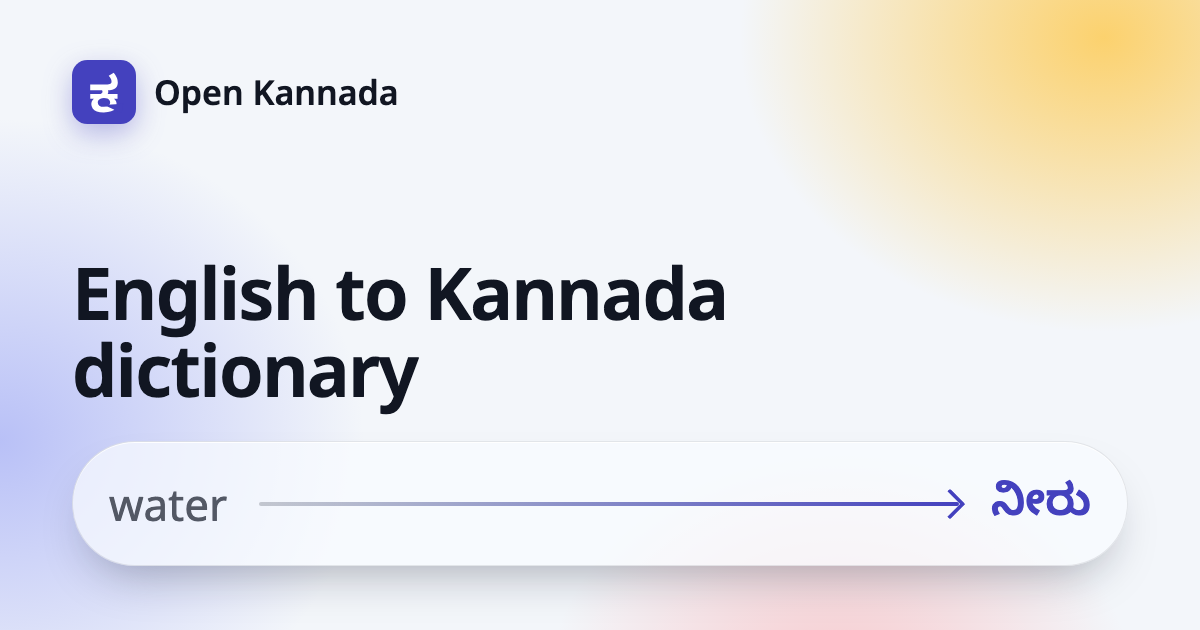
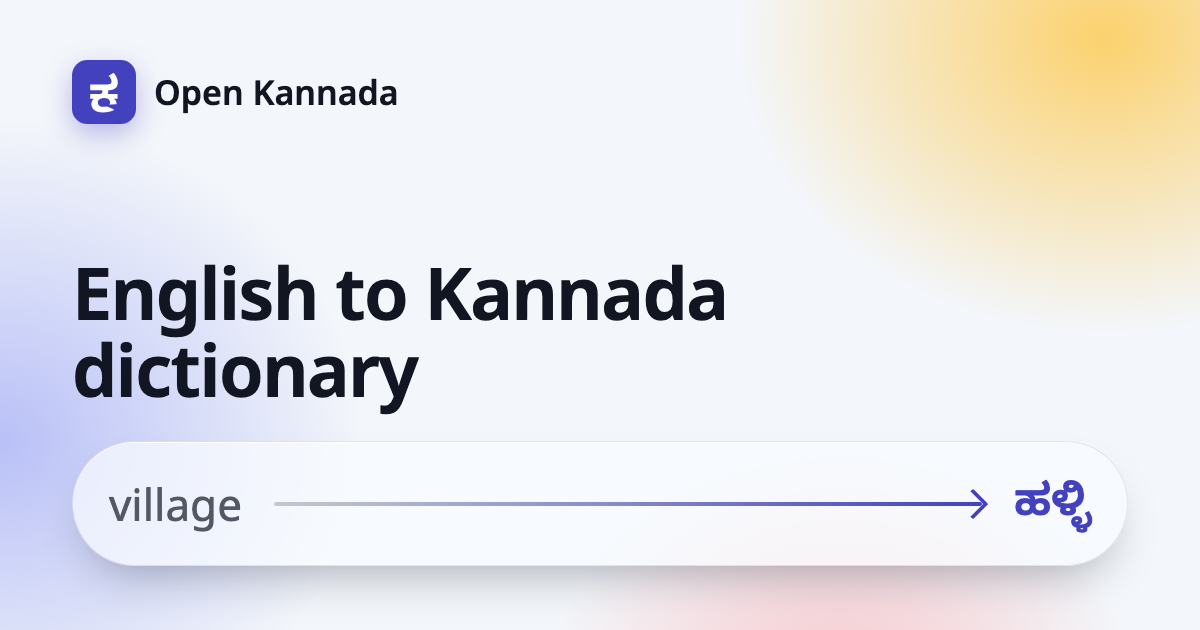
Describe the dictionary on /dictionary/ with its measured figures (#41)
The dictionary build is measured now, so /dictionary/ says what it holds
and how well it finds words, from the figures measured on 18 November
2026, and keeps Downloads as coming soon until it is hosted.

- What it does: 1 page per English word, Kannada words with ISO 15919
  and Baraha spellings, and search that takes English or Kannada, finds
  sound-alikes and finds a word from its inflected forms.
- Result: 3,712 English word pages and 13,887 distinct Kannada words. In
  held-out Kannada Wikipedia text, 20.0% of running words find a page by
  the exact word and 45.1% with inflected forms; 1.6% and 21.1% of
  distinct words.
- Limits: about 1 page in 4 leads with a Kannada word whose modern
  meaning differs; in 2 reviews of 100 pages the main word was judged
  fine on 27 and 28 and wrong on 25 and 24. The 400 most frequent
  English words have no page yet.
- What's next: a Kannada reader's check of the main words, example
  sentences only from openly licensed sources, and the pilot OCR of
  Ziegler's 1876 and Kittel's 1894 dictionaries.
- Sources with each part's license, and the credit line Alar's ODbL asks
  for. The code license is MIT OR Apache-2.0, where the page said MIT.
- The example word, the picture and the Open Graph card show village,
  which has a page; water has none yet.
- The Kannada draft matches and stays needsReview.

A test checks the figures of each sentence in order in both languages,
the stats, the description and the full credit line.
[…]

Changed region(s): [[0.7708, 0.754, 0.925, 0.8444], [0.0925, 0.7841, 0.2158, 0.8444]]

diff --git a/src/content/pages.ts b/src/content/pages.ts
@@ -95,7 +95,7 @@ export interface FontRelease {
 
 /** 1 part of a project page; its heading comes from the site strings, so every project page reads alike. */
 export interface ProjectSection {
-  id: "what" | "specimen" | "based" | "fixed" | "result" | "method" | "limits" | "downloads" | "license";
+  id: "what" | "specimen" | "based" | "fixed" | "result" | "method" | "limits" | "next" | "sources" | "downloads" | "license";
   paragraphs?: string[];
   items?: string[];
   stats?: Stat[];
@@ -147,6 +147,8 @@ const CONVERT_STEPS = [
 
 const TYPING_LINK = '<a href="/english-to-kannada-typing/">English to Kannada typing</a>';
 
+/** The credit Alar's ODbL asks for, word for word, on every page and download that uses it. */
+const ALAR_CREDIT = "Contains information from Alar by V. Krishna (<a href=\"https://alar.ink\">https://alar.ink</a>), made available under the Open Database License 1.0.";
 const SOON = "Coming soon.";
 const SOON_KN = "ಶೀಘ್ರದಲ್ಲೇ ಬರಲಿದೆ.";
 const MIT = "https://opensource.org/license/mit";
@@ -654,25 +656,74 @@ export const ALL_PAGES: Page[] = [
     name: "Dictionary",
     title: "English to Kannada dictionary: Kannada words, spellings and meanings",
     description:
-      "An English to Kannada dictionary with 1 page per English word: Kannada words with ISO 15919 and Baraha spellings, part of speech and meanings from Alar.",
+      "An English to Kannada dictionary with 3,712 word pages: Kannada words with ISO 15919 and Baraha spellings, part of speech and meanings from Alar.",
     h1: "English to Kannada dictionary",
     intro:
-      "An English to Kannada dictionary, with 1 page per English word. Each page gives the Kannada words with their ISO 15919 and Baraha spellings, the part of speech, and meanings drawn from the Alar dictionary.",
+      "An English to Kannada dictionary, with 1 page per English word. Each page gives the Kannada words with their ISO 15919 and Baraha spellings, the part of speech, and what each Kannada word means in English, from the Alar dictionary.",
     art: "dictionary",
     schema: "CreativeWork",
-    licenses: [ODBL, MIT],
+    licenses: [ODBL, MIT, APACHE],
     sections: [
       {
         id: "what",
         paragraphs: [
-          'Look up an English word, such as <i>water</i>, and its page lists the Kannada words for it, such as <span lang="kn">ನೀರು</span>, each with its ISO 15919 spelling, <kbd>nīru</kbd>, and the Baraha spelling to type it, <kbd>nIru</kbd>. The meanings come from the Alar dictionary by V. Krishna.',
+          'The page for an English word, such as <i>village</i>, lists the Kannada words for it, such as <span lang="kn">ಹಳ್ಳಿ</span>, each with its ISO 15919 spelling, <kbd>haḷḷi</kbd>, and the Baraha spelling to type it, <kbd>haLLi</kbd>. The meanings come from the Alar dictionary by V. Krishna.',
+          'The dictionary\'s search takes English or Kannada. It finds words that sound alike, and it finds a Kannada word from its inflected forms: <span lang="kn">ಹಳ್ಳಿಗಳಲ್ಲಿ</span>, in the villages, finds the page for <i>village</i>.',
+        ],
+      },
+      {
+        id: "result",
+        stats: [
+          { value: "3,712", label: "English word pages" },
+          { value: "13,887", label: "distinct Kannada words on those pages" },
+          { value: "45.1%", label: "of Kannada words in running text find a page, with inflected forms" },
+        ],
+        paragraphs: [
+          "In held-out Kannada Wikipedia text, 20.0% of running words find a page by the exact word, and 45.1% by the exact word or the word it is a form of. Counted once each, 1.6% of distinct words find a page by the exact word, and 21.1% with forms.",
+        ],
+      },
+      {
+        id: "method",
+        paragraphs: [
+          'The text is the 2.2 million held-out words of Kannada Wikipedia that the <a href="/spell-check/">spell checker</a> is measured on. Search matches each page\'s main Kannada word and the next 4, 10,654 Kannada words in all.',
+          "The main Kannada word of 100 pages was checked in 2 independent reviews.",
+        ],
+      },
+      {
+        id: "limits",
+        items: [
+          'About 1 page in 4 leads with a Kannada word whose modern meaning differs, such as <span lang="kn">ವರ್ತನೆ</span> for <i>profession</i>. In the 2 reviews, the main word was judged fine on 27 and 28 pages, and wrong on 25 and 24.',
+          "The 400 most frequent English words, such as <i>house</i> and <i>water</i>, have no page yet. They are left out until their Kannada meanings can be ranked well.",
+        ],
+      },
+      {
+        id: "next",
+        items: [
+          "A Kannada reader's check of the main word on the most searched pages.",
+          "Example sentences, only from an openly licensed source and with attribution. None are made up, and none are on the site yet.",
+          'Words from 2 public-domain dictionaries: Ziegler\'s English-Kannada school dictionary of 1876 and Kittel\'s Kannada-English dictionary of 1894. In a pilot on 20 pages of each, <a href="/ocr/">Open Kannada OCR</a> v0.2 misread 7.6% of Kannada characters in Ziegler, against 12.4% for Tesseract\'s stock Kannada model, and 22.7% in Kittel, against 30.1%. These are first measurements, on 60 lines of each book transcribed from the scans. A Kannada reader has not checked those transcriptions yet.',
+          'Ziegler comes first, since its Kannada reads well enough to proofread. Kittel needs a model trained on its old letters, such as <span lang="kn">ಱ</span> and <span lang="kn">ೞ</span>, and its type. English headwords with pronunciation marks come out exactly right fewer than 1 time in 10 so far, 6.2% in Ziegler and 7.5% in Kittel, because Tesseract\'s English model lacks the marks.',
+        ],
+      },
+      {
+        id: "sources",
+        items: [
+          'Meanings and Kannada words: <a href="https://alar.ink">Alar</a>, the Kannada-English dictionary by V. Krishna, under ODbL-1.0. The English to Kannada index built from it is ODbL-1.0 too.',
+          'Inflected-form search: the <a href="/spell-check/">spell checker</a>\'s analyzer, compiled to WebAssembly, under MIT OR Apache-2.0. Its stem list is derived from Alar and is ODbL-1.0.',
+          "Sound-alike search: the spell checker's sound-alike keys, under MIT OR Apache-2.0.",
+          'ISO 15919 and Baraha spellings: <a href="https://github.com/openkannada/kannadi">kannadi</a>, under MIT OR Apache-2.0.',
+          "The order of meanings: word counts from Kannada Wikipedia. Only the counts are used; Wikipedia's text is CC BY-SA 4.0.",
+          'The choice of English words: ranks from <a href="https://github.com/hermitdave/FrequencyWords">FrequencyWords</a> by Hermit Dave, under CC BY-SA 4.0. Only the ranks are used.',
         ],
       },
       { id: "downloads", paragraphs: [SOON] },
-      { id: "license", items: ["Data: ODbL-1.0.", "Code: MIT."] },
+      {
+        id: "license",
+        items: ["Data: ODbL-1.0.", "Code: MIT OR Apache-2.0.", ALAR_CREDIT],
+      },
     ],
     faq: [],
-    og: { from: "water", to: "ನೀರು" },
+    og: { from: "village", to: "ಹಳ್ಳಿ" },
     keywords: "",
   },
   {
@@ -1089,25 +1140,74 @@ export const ALL_PAGES: Page[] = [
     name: "ನಿಘಂಟು",
     title: "ಇಂಗ್ಲಿಷ್-ಕನ್ನಡ ನಿಘಂಟು: ಕನ್ನಡ ಪದಗಳು, ಲಿಪ್ಯಂತರ ಮತ್ತು ಅರ್ಥಗಳು",
     description:
-      "ಪ್ರತಿ ಇಂಗ್ಲಿಷ್ ಪದಕ್ಕೆ 1 ಪುಟವಿರುವ ಇಂಗ್ಲಿಷ್-ಕನ್ನಡ ನಿಘಂಟು: ISO 15919 ಮತ್ತು ಬರಹ ಲಿಪ್ಯಂತರದೊಂದಿಗೆ ಕನ್ನಡ ಪದಗಳು, ಪದವರ್ಗ, ಅಲರ್ನಿಂದ ಅರ್ಥಗಳು.",
+      "3,712 ಪದ ಪುಟಗಳಿರುವ ಇಂಗ್ಲಿಷ್-ಕನ್ನಡ ನಿಘಂಟು: ISO 15919 ಮತ್ತು ಬರಹ ಲಿಪ್ಯಂತರದೊಂದಿಗೆ ಕನ್ನಡ ಪದಗಳು, ಪದವರ್ಗ, ಅಲರ್ನಿಂದ ಅರ್ಥಗಳು.",
     h1: "ಇಂಗ್ಲಿಷ್-ಕನ್ನಡ ನಿಘಂಟು",
     intro:
-      "ಪ್ರತಿ ಇಂಗ್ಲಿಷ್ ಪದಕ್ಕೆ 1 ಪುಟವಿರುವ ಇಂಗ್ಲಿಷ್-ಕನ್ನಡ ನಿಘಂಟು. ಪ್ರತಿ ಪುಟದಲ್ಲಿ ಕನ್ನಡ ಪದಗಳು, ಅವುಗಳ ISO 15919 ಮತ್ತು ಬರಹ ಲಿಪ್ಯಂತರ, ಪದವರ್ಗ, ಮತ್ತು ಅಲರ್ ನಿಘಂಟಿನಿಂದ ತೆಗೆದ ಅರ್ಥಗಳು ಇರುತ್ತವೆ.",
+      "ಪ್ರತಿ ಇಂಗ್ಲಿಷ್ ಪದಕ್ಕೆ 1 ಪುಟವಿರುವ ಇಂಗ್ಲಿಷ್-ಕನ್ನಡ ನಿಘಂಟು. ಪ್ರತಿ ಪುಟದಲ್ಲಿ ಕನ್ನಡ ಪದಗಳು, ಅವುಗಳ ISO 15919 ಮತ್ತು ಬರಹ ಲಿಪ್ಯಂತರ, ಪದವರ್ಗ, ಮತ್ತು ಅಲರ್ ನಿಘಂಟಿನಿಂದ ಪಡೆದ ಇಂಗ್ಲಿಷ್ ಅರ್ಥಗಳು ಇರುತ್ತವೆ.",
     art: "dictionary",
     schema: "CreativeWork",
-    licenses: [ODBL, MIT],
+    licenses: [ODBL, MIT, APACHE],
     sections: [
       {
         id: "what",
         paragraphs: [
-          '<i lang="en">water</i> ನಂತಹ ಇಂಗ್ಲಿಷ್ ಪದವನ್ನು ಹುಡುಕಿದರೆ, ಅದರ ಪುಟದಲ್ಲಿ ನೀರು ನಂತಹ ಕನ್ನಡ ಪದಗಳು ಕಾಣುತ್ತವೆ. ಪ್ರತಿ ಪದದ ಜೊತೆ ಅದರ ISO 15919 ರೂಪ <kbd>nīru</kbd>, ಮತ್ತು ಅದನ್ನು ಟೈಪ್ ಮಾಡಲು ಬರಹ ರೂಪ <kbd>nIru</kbd> ಇರುತ್ತದೆ. ಅರ್ಥಗಳು ವಿ. ಕೃಷ್ಣ ಅವರ ಅಲರ್ ನಿಘಂಟಿನಿಂದ ಬಂದಿವೆ.',
+          '<i lang="en">village</i> ನಂತಹ ಇಂಗ್ಲಿಷ್ ಪದದ ಪುಟದಲ್ಲಿ ಹಳ್ಳಿ ನಂತಹ ಕನ್ನಡ ಪದಗಳಿರುತ್ತವೆ. ಪ್ರತಿ ಪದದ ಜೊತೆ ಅದರ ISO 15919 ರೂಪ <kbd>haḷḷi</kbd>, ಮತ್ತು ಅದನ್ನು ಟೈಪ್ ಮಾಡಲು ಬರಹ ರೂಪ <kbd>haLLi</kbd> ಇರುತ್ತದೆ. ಅರ್ಥಗಳು ವಿ. ಕೃಷ್ಣ ಅವರ ಅಲರ್ ನಿಘಂಟಿನಿಂದ ಬಂದಿವೆ.',
+          'ನಿಘಂಟಿನ ಹುಡುಕಾಟ ಇಂಗ್ಲಿಷ್ ಅಥವಾ ಕನ್ನಡ ಪದವನ್ನು ಸ್ವೀಕರಿಸುತ್ತದೆ. ಅದು ಉಚ್ಚಾರದಲ್ಲಿ ಹೋಲುವ ಪದಗಳನ್ನು ಹುಡುಕುತ್ತದೆ, ಮತ್ತು ಪದದ ರೂಪಾಂತರಗಳಿಂದ ಮೂಲ ಪದವನ್ನು ಗುರುತಿಸುತ್ತದೆ: ಹಳ್ಳಿಗಳಲ್ಲಿ ಎಂಬ ರೂಪದಿಂದ <i lang="en">village</i> ಪುಟ ಸಿಗುತ್ತದೆ.',
+        ],
+      },
+      {
+        id: "result",
+        stats: [
+          { value: "3,712", label: "ಇಂಗ್ಲಿಷ್ ಪದ ಪುಟಗಳು" },
+          { value: "13,887", label: "ಆ ಪುಟಗಳಲ್ಲಿರುವ ಬೇರೆ ಬೇರೆ ಕನ್ನಡ ಪದಗಳು" },
+          { value: "45.1%", label: "ಪಠ್ಯದ ಕನ್ನಡ ಪದಗಳಿಗೆ, ರೂಪಾಂತರಗಳೂ ಸೇರಿ, ಪುಟ ಸಿಗುತ್ತದೆ" },
+        ],
+        paragraphs: [
+          "ಪರೀಕ್ಷೆಗಾಗಿ ಹೊರಗಿಟ್ಟ ಕನ್ನಡ ವಿಕಿಪೀಡಿಯ ಪಠ್ಯದಲ್ಲಿ, ಪದವನ್ನು ಇದ್ದಂತೆಯೇ ಹುಡುಕಿದರೆ 20.0% ಪದಗಳಿಗೆ ಪುಟ ಸಿಗುತ್ತದೆ. ಪದ ಯಾವುದರ ರೂಪಾಂತರವೋ ಆ ಮೂಲ ಪದದಿಂದಲೂ ಹುಡುಕಿದರೆ 45.1% ಪದಗಳಿಗೆ ಸಿಗುತ್ತದೆ. ಪ್ರತಿ ಪದವನ್ನು ಒಮ್ಮೆ ಮಾತ್ರ ಎಣಿಸಿದರೆ, ಇವು 1.6% ಮತ್ತು 21.1%.",
+        ],
+      },
+      {
+        id: "method",
+        paragraphs: [
+          'ಅಳತೆಗೆ ಬಳಸಿದ ಪಠ್ಯ, <a href="/kn/spell-check/">ಕಾಗುಣಿತ ಪರೀಕ್ಷಕ</a>ವನ್ನು ಅಳೆಯಲು ಪರೀಕ್ಷೆಗಾಗಿ ಹೊರಗಿಟ್ಟ ಕನ್ನಡ ವಿಕಿಪೀಡಿಯದ ಅದೇ 22 ಲಕ್ಷ ಪದಗಳು. ಹುಡುಕಾಟವು ಪ್ರತಿ ಪುಟದ ಮುಖ್ಯ ಕನ್ನಡ ಪದ ಮತ್ತು ಅದರ ನಂತರದ 4 ಪದಗಳೊಂದಿಗೆ ಹೋಲಿಸುತ್ತದೆ, ಒಟ್ಟು 10,654 ಕನ್ನಡ ಪದಗಳು.',
+          "100 ಪುಟಗಳ ಮುಖ್ಯ ಕನ್ನಡ ಪದವನ್ನು 2 ಸ್ವತಂತ್ರ ಪರಿಶೀಲನೆಗಳಲ್ಲಿ ಪರಿಶೀಲಿಸಲಾಗಿದೆ.",
+        ],
+      },
+      {
+        id: "limits",
+        items: [
+          'ಸುಮಾರು 4 ಪುಟಗಳಲ್ಲಿ 1 ಪುಟ, ಇಂದಿನ ಅರ್ಥ ಬೇರೆಯಾಗಿರುವ ಕನ್ನಡ ಪದದಿಂದ ಆರಂಭವಾಗುತ್ತದೆ, ಉದಾಹರಣೆಗೆ <i lang="en">profession</i> ಗೆ ವರ್ತನೆ. 2 ಪರಿಶೀಲನೆಗಳಲ್ಲಿ ಮುಖ್ಯ ಪದ 27 ಮತ್ತು 28 ಪುಟಗಳಲ್ಲಿ ಸರಿ ಎಂದು, 25 ಮತ್ತು 24 ಪುಟಗಳಲ್ಲಿ ತಪ್ಪು ಎಂದು ತೀರ್ಮಾನವಾಯಿತು.',
+          '<i lang="en">house</i>, <i lang="en">water</i> ನಂತಹ ಅತಿ ಹೆಚ್ಚು ಬಳಕೆಯ 400 ಇಂಗ್ಲಿಷ್ ಪದಗಳಿಗೆ ಇನ್ನೂ ಪುಟವಿಲ್ಲ. ಅವುಗಳ ಕನ್ನಡ ಅರ್ಥಗಳನ್ನು ಸರಿಯಾಗಿ ಕ್ರಮಗೊಳಿಸುವವರೆಗೆ ಅವನ್ನು ಬಿಡಲಾಗಿದೆ.',
+        ],
+      },
+      {
+        id: "next",
+        items: [
+          "ಹೆಚ್ಚು ಹುಡುಕಲಾಗುವ ಪುಟಗಳ ಮುಖ್ಯ ಪದವನ್ನು ಕನ್ನಡ ಓದುಗರೊಬ್ಬರು ಪರಿಶೀಲಿಸುವುದು.",
+          "ಉದಾಹರಣೆ ವಾಕ್ಯಗಳು, ಮುಕ್ತ ಲೈಸೆನ್ಸ್ ಇರುವ ಮೂಲದಿಂದ ಮಾತ್ರ, ಮೂಲದ ಉಲ್ಲೇಖದೊಂದಿಗೆ. ಯಾವುದನ್ನೂ ಕಲ್ಪಿಸಿ ಬರೆಯುವುದಿಲ್ಲ, ಮತ್ತು ಇನ್ನೂ ಯಾವುದೂ ತಾಣದಲ್ಲಿಲ್ಲ.",
+          'ಸಾರ್ವಜನಿಕ ಸ್ವತ್ತಾಗಿರುವ 2 ನಿಘಂಟುಗಳ ಪದಗಳು: 1876ರ ಜೀಗ್ಲರ್ ಅವರ ಇಂಗ್ಲಿಷ್-ಕನ್ನಡ ಶಾಲಾ ನಿಘಂಟು ಮತ್ತು 1894ರ ಕಿಟ್ಟೆಲ್ ಅವರ ಕನ್ನಡ-ಇಂಗ್ಲಿಷ್ ನಿಘಂಟು. ಪ್ರತಿಯೊಂದರ 20 ಪುಟಗಳ ಪ್ರಾಯೋಗಿಕ ಓದಿನಲ್ಲಿ, <a href="/kn/ocr/">ಓಪನ್ ಕನ್ನಡ OCR</a> 0.2 ಜೀಗ್ಲರ್ನಲ್ಲಿ 7.6% ಕನ್ನಡ ಅಕ್ಷರಗಳನ್ನು ತಪ್ಪಾಗಿ ಓದಿತು; Tesseract ನ ಸಾಮಾನ್ಯ ಕನ್ನಡ ಮಾದರಿ 12.4% ತಪ್ಪಾಗಿ ಓದಿತು. ಕಿಟ್ಟೆಲ್ನಲ್ಲಿ ಇವು 22.7% ಮತ್ತು 30.1%. ಇವು ಮೊದಲ ಅಳತೆಗಳು, ಸ್ಕ್ಯಾನ್ಗಳಿಂದ ಬರೆದುಕೊಂಡ ಪ್ರತಿ ಪುಸ್ತಕದ 60 ಸಾಲುಗಳ ಮೇಲೆ. ಆ ಪ್ರತಿಗಳನ್ನು ಕನ್ನಡ ಓದುಗರೊಬ್ಬರು ಇನ್ನೂ ಪರಿಶೀಲಿಸಿಲ್ಲ.',
+          "ಜೀಗ್ಲರ್ ಮೊದಲು, ಏಕೆಂದರೆ ಅದರ ಕನ್ನಡವನ್ನು ತಿದ್ದುವಷ್ಟು ಚೆನ್ನಾಗಿ ಓದಬಹುದು. ಕಿಟ್ಟೆಲ್ಗೆ ಱ, ೞ ನಂತಹ ಅದರ ಹಳೆಯ ಅಕ್ಷರಗಳ ಮೇಲೆ ಮತ್ತು ಅದರ ಅಚ್ಚಿನ ಮೇಲೆ ತರಬೇತಿ ಪಡೆದ ಮಾದರಿ ಬೇಕು. ಉಚ್ಚಾರ ಚಿಹ್ನೆಗಳಿರುವ ಇಂಗ್ಲಿಷ್ ಮುಖ್ಯ ಪದಗಳು ಸದ್ಯಕ್ಕೆ 10ರಲ್ಲಿ 1 ಸಲಕ್ಕಿಂತ ಕಡಿಮೆ ಬಾರಿ ಪೂರ್ತಿ ಸರಿಯಾಗಿ ಬರುತ್ತವೆ, ಜೀಗ್ಲರ್ನಲ್ಲಿ 6.2% ಮತ್ತು ಕಿಟ್ಟೆಲ್ನಲ್ಲಿ 7.5%, ಏಕೆಂದರೆ Tesseract ನ ಇಂಗ್ಲಿಷ್ ಮಾದರಿಯಲ್ಲಿ ಆ ಚಿಹ್ನೆಗಳಿಲ್ಲ.",
+        ],
+      },
+      {
+        id: "sources",
+        items: [
+          'ಅರ್ಥಗಳು ಮತ್ತು ಕನ್ನಡ ಪದಗಳು: ವಿ. ಕೃಷ್ಣ ಅವರ ಕನ್ನಡ-ಇಂಗ್ಲಿಷ್ ನಿಘಂಟು <a href="https://alar.ink">ಅಲರ್</a>, ODbL-1.0 ಅಡಿಯಲ್ಲಿ. ಅದರಿಂದ ಕಟ್ಟಿದ ಇಂಗ್ಲಿಷ್-ಕನ್ನಡ ಸೂಚಿಯೂ ODbL-1.0.',
+          'ರೂಪಾಂತರಗಳ ಹುಡುಕಾಟ: <a href="/kn/spell-check/">ಕಾಗುಣಿತ ಪರೀಕ್ಷಕ</a>ದ ಪದ ವಿಶ್ಲೇಷಕ, WebAssembly ಆಗಿ, MIT OR Apache-2.0 ಅಡಿಯಲ್ಲಿ. ಅದರ ಪದಮೂಲ ಪಟ್ಟಿ ಅಲರ್ನಿಂದ ಪಡೆದದ್ದು, ODbL-1.0.',
+          "ಉಚ್ಚಾರ ಹೋಲಿಕೆಯ ಹುಡುಕಾಟ: ಕಾಗುಣಿತ ಪರೀಕ್ಷಕದ ಉಚ್ಚಾರ ಹೋಲಿಕೆಯ ಕೀಲಿಗಳು, MIT OR Apache-2.0 ಅಡಿಯಲ್ಲಿ.",
+          'ISO 15919 ಮತ್ತು ಬರಹ ರೂಪಗಳು: <a href="https://github.com/openkannada/kannadi">ಕನ್ನಡಿ</a>, MIT OR Apache-2.0 ಅಡಿಯಲ್ಲಿ.',
+          "ಅರ್ಥಗಳ ಕ್ರಮ: ಕನ್ನಡ ವಿಕಿಪೀಡಿಯದ ಪದ ಎಣಿಕೆಗಳು. ಎಣಿಕೆಗಳನ್ನು ಮಾತ್ರ ಬಳಸಲಾಗಿದೆ; ವಿಕಿಪೀಡಿಯದ ಪಠ್ಯ CC BY-SA 4.0.",
+          'ಇಂಗ್ಲಿಷ್ ಪದಗಳ ಆಯ್ಕೆ: Hermit Dave ಅವರ <a href="https://github.com/hermitdave/FrequencyWords">FrequencyWords</a> ನ ಕ್ರಮಾಂಕಗಳು, CC BY-SA 4.0 ಅಡಿಯಲ್ಲಿ. ಕ್ರಮಾಂಕಗಳನ್ನು ಮಾತ್ರ ಬಳಸಲಾಗಿದೆ.',
         ],
       },
       { id: "downloads", paragraphs: [SOON_KN] },
-      { id: "license", items: ["ಡೇಟಾ: ODbL-1.0.", "ಕೋಡ್: MIT."] },
+      {
+        id: "license",
+        items: ["ಡೇಟಾ: ODbL-1.0.", "ಕೋಡ್: MIT OR Apache-2.0.", ALAR_CREDIT],
+      },
     ],
     faq: [],
-    og: { from: "water", to: "ನೀರು" },
+    og: { from: "village", to: "ಹಳ್ಳಿ" },
     keywords: "",
   },
   {

diff --git a/test/site.test.ts b/test/site.test.ts
@@ -85,7 +85,24 @@ test("project pages say what each tool does, its license and where to get it, wi
     "MILE lines from IISc, 600: 2.8%, against 3.8%.",
   ], "the v0.2 results as released, and no other");
   assert.doesNotMatch(text("ocr"), /dots/i);
-  for (const slug of ["fonts", "dictionary"]) assert.doesNotMatch(text(slug).replace(/U\+[0-9A-F]{4}|15919|1\.1\b|2\.0\b|1\.0\b|\b3 |\d\.\d{3}|SHA-256|Article 1\b/g, ""), /\d+(\.\d+)?%|\d{2,}/, `${slug} shows a figure`);
+  const BRIEF = ["3,712", "13,887", "10,654", "20.0%", "45.1%", "1.6%", "21.1%", "2.2", "22", "100", "27", "28", "25", "24", "400", "1876", "1894", "20", "7.6%", "12.4%", "22.7%", "30.1%", "60", "6.2%", "7.5%", "10", "0.2", "4", "1", "2"];
+  const figures = (html) => plainText(html).replace(/15919|ODbL-1\.0|Apache-2\.0|BY-SA 4\.0|License 1\.0/g, "").match(/\d[\d,.]*\d%?|\d%?/g) ?? [];
+  const CREDIT = 'Contains information from Alar by V. Krishna (<a href="https://alar.ink">https://alar.ink</a>), made available under the Open Database License 1.0.';
+  for (const slug of ["dictionary", "kn/dictionary"]) {
+    const page = ALL_PAGES.find((p) => p.slug === slug);
+    const section = (id) => page.sections.find((s) => s.id === id);
+    for (const n of figures(JSON.stringify(page.sections) + page.description + page.intro)) assert.ok(BRIEF.includes(n), `${slug} shows ${n}, a figure the brief does not give`);
+    assert.deepEqual(section("result").stats.map((s) => s.value), ["3,712", "13,887", "45.1%"], `${slug} stats`);
+    assert.deepEqual(figures(section("result").paragraphs[0]), ["20.0%", "45.1%", "1.6%", "21.1%"], `${slug}: running words exact, with forms, then distinct`);
+    assert.deepEqual(figures(section("limits").items[0]).filter((n) => n.length === 2), ["27", "28", "25", "24"], `${slug}: judged fine, then wrong`);
+    assert.deepEqual(figures(section("next").items[2]).filter((n) => n.endsWith("%")), ["7.6%", "12.4%", "22.7%", "30.1%"], `${slug}: Ziegler ours then stock, Kittel ours then stock`);
+    assert.deepEqual(figures(section("next").items[3]).filter((n) => n.endsWith("%")), ["6.2%", "7.5%"], `${slug}: headwords, Ziegler then Kittel`);
+    assert.ok(figures(section("method").paragraphs[0]).includes("10,654"), `${slug} lacks the searched words`);
+    assert.equal(section("license").items.at(-1), CREDIT, `${slug}: the Alar credit, word for word`);
+    assert.ok(page.description.includes("3,712"), `${slug} description`);
+    assert.equal(section("downloads").paragraphs.length, 1, `${slug}: downloads stay coming soon until the dictionary is hosted`);
+  }
+  for (const slug of ["fonts"]) assert.doesNotMatch(text(slug).replace(/U\+[0-9A-F]{4}|15919|1\.1\b|2\.0\b|1\.0\b|\b3 |\d\.\d{3}|SHA-256|Article 1\b/g, ""), /\d+(\.\d+)?%|\d{2,}/, `${slug} shows a figure`);
   const bench = PAGES.find((p) => p.slug === "ai-benchmark");
   const rows = bench.sections.find((s) => s.id === "result").table.rows;
   assert.deepEqual(rows.map((r) => [r.name, r.ratio, r.low, r.high]), [

diff --git a/src/i18n/site.kn.ts b/src/i18n/site.kn.ts
@@ -72,6 +72,8 @@ export const SITE_KN: SiteStrings = {
     result: "ಫಲಿತಾಂಶ",
     method: "ಅಳೆದ ವಿಧಾನ",
     limits: "ಮಿತಿಗಳು",
+    next: "ಮುಂದಿನ ಹೆಜ್ಜೆಗಳು",
+    sources: "ಮೂಲಗಳು",
     downloads: "ಡೌನ್ಲೋಡ್ಗಳು",
     license: "ಲೈಸೆನ್ಸ್",
     name: "ಟೋಕನೈಸರ್",

diff --git a/src/i18n/site.en.ts b/src/i18n/site.en.ts
@@ -76,6 +76,8 @@ export const SITE_EN = {
     result: "Result",
     method: "How it was measured",
     limits: "Limits",
+    next: "What's next",
+    sources: "Sources",
     downloads: "Downloads",
     license: "License",
     name: "Tokenizer",
